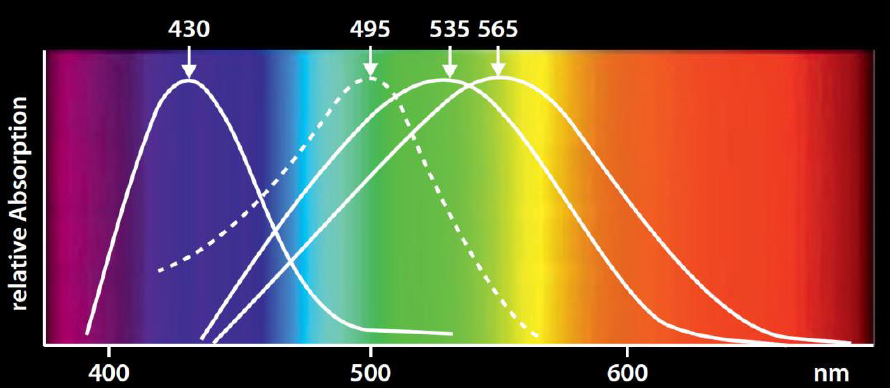
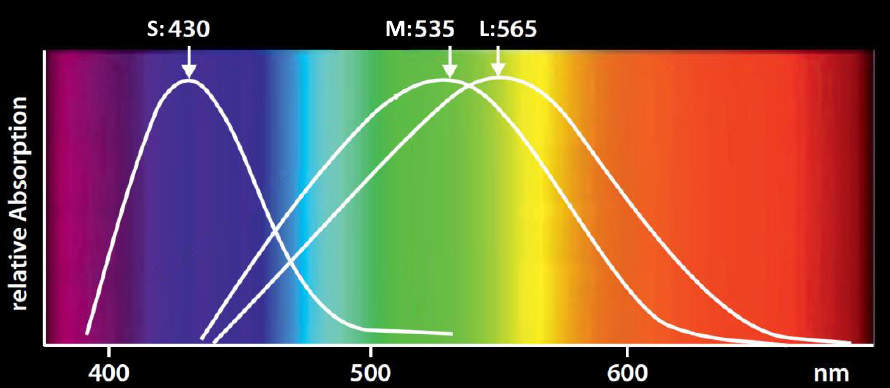
Added stuff about the human eye

diff --git a/thesis/theDoc.TeX b/thesis/theDoc.TeX
@@ -518,17 +518,27 @@ kann durch viele Farbreizfunktionen $\phi_\lambda$ ausgedrückt werden."'\cite[6
 \section{Menschliches Farbsehen}
 Das menschliche Auge besitzt zwei Arten von "'Sensoren"', oder auch Rezeptoren. Stäbchen zur Helligkeitswahrnehmung bei Nacht und
 Zapfen zur Helligkeits- und Farbwahrnehmung bei Tag. Das Verhältnis von Zapfen zu Stäbchen beträgt im Schnitt 20:1.\\
-Somit ist das Sehen bei Tag ca. sieben Mal so hoch aufgelöst wie bei Nacht.\\
+Somit ist das Sehen bei Tag ca. sieben Mal so hoch aufgelöst wie bei Nacht.
+\begin{figure}[H]
+    \begin{center}
+        \includegraphics[width=.8\textwidth]{images/eye.png}
+    \end{center}
+    \caption{Schematische Darstellung des Auges \cite{wisotopTriChro}}\label{fig:eye}
+\end{figure}
+\noindent
 Ähnlich wie verschiedene Photodioden, welche einzelne Spektralbereiche abdecken, decken auch die Zapfen nur einen
 bestimmten Bereich im Farbspektrum ab. Es gibt drei verschiedene Arten von Zapfen. S-, M-, und L-Zapfen. Also "'Short"',
 "'Middle"' und "'Long"' Zapfen. Die Längenangaben beziehen sich auf den Wellenlängenbereich, auf welchen die Zapfen
 resistiv sind.\\
 \begin{figure}[H]
-    \includegraphics[width=\textwidth]{images/eye_spectrum.png}
+    \begin{center}
+        \includegraphics[width=.8\textwidth]{images/eye_spectrum.png}
+    \end{center}
     \caption{Darstellung des sichtbaren Farbspektrums der Zapfen des Auges}\label{fig:eye_spectrum}
 \end{figure}
 \noindent
-Die Mengenverteilung der verschiedenen Zapfenarten liegt circa bei S:M:L 1:16:32.
+Die Mengenverteilung der verschiedenen Zapfenarten liegt circa bei S:M:L 1:16:32. Stäbchen und Zapfen übergeben die
+empfangen Farbreize and den Sehnerv. Dieser leitet die Informationen an das Gehirn weiter.
 \clearpage
 
 %%%%%%%%%%%%%%%%%%%%%%%%%% Farbräume %%%%%%%%%%%%%%%%%%%%%%%%%%%%%%%%%%%%%%%%%%%%%%%%%%%%%%%%%%%%%%%%%%
@@ -1464,7 +1474,8 @@ c - Lichtgeschwindigkeit - 299 792 458 meter pro sekunde
     \bibitem[Licht Wikipedia, 2019]{wikiLicht}"'Licht - Wikipedia"', \url{https://de.wikipedia.org/wiki/Licht}. Visited on: 11.08.2019
     \bibitem[Farbtemperatur Wikipedia, 2019]{wikiFarbtemperatur}"'Farbtemperatur - Wikipedia"', \url{https://de.wikipedia.org/wiki/Farbtemperatur}. Visited on: 14.09.2019
     \bibitem[Wikipedia, 2019]{spectrumLight}"'Electromagnetic spectrum - Wikipedia"', \url{https://en.wikipedia.org/wiki/Electromagnetic_spectrum}. Visited on: 11.08.2019
-    \bibitem[Lichtquellen, 2015]{lichtquellen} Dohlus, Rainer: "'Lichtquellen"' De Gruyter, Berlin, 2015, 
+    \bibitem[Lichtquellen, 2015]{lichtquellen} Dohlus, Rainer: "'Lichtquellen"' De Gruyter, Berlin, 2015
+    \bibitem[Wisotop Homepage, 2019]{wisotopTriChro} \url{https://wisotop.de/wellenlaengen-des-lichts-farben.php}. Visited on: 03.10.2019
     \bibitem[Farbwahrnehmung FHT Esslingen, 2019]{fhtEsslignen}"'Farbwahrnehmung"', \url{http://www.it.fht-esslingen.de/~asbeck/gdial/farbe/sehen2.html}. Visited on: 11.08.2019
     \bibitem[Wisotop Homepage,2019]{wisotopRGB} \url{https://wisotop.de/Farbmodelle-RGB-CMYK-HSS-HSL.php}. Visited on: 27.09.2019
     \bibitem[RGB-Farbraum - Wikipedia,2019]{wikipediaRGB} \url{https://de.wikipedia.org/wiki/RGB-Farbraum}. Visited on: 29.09.2019
